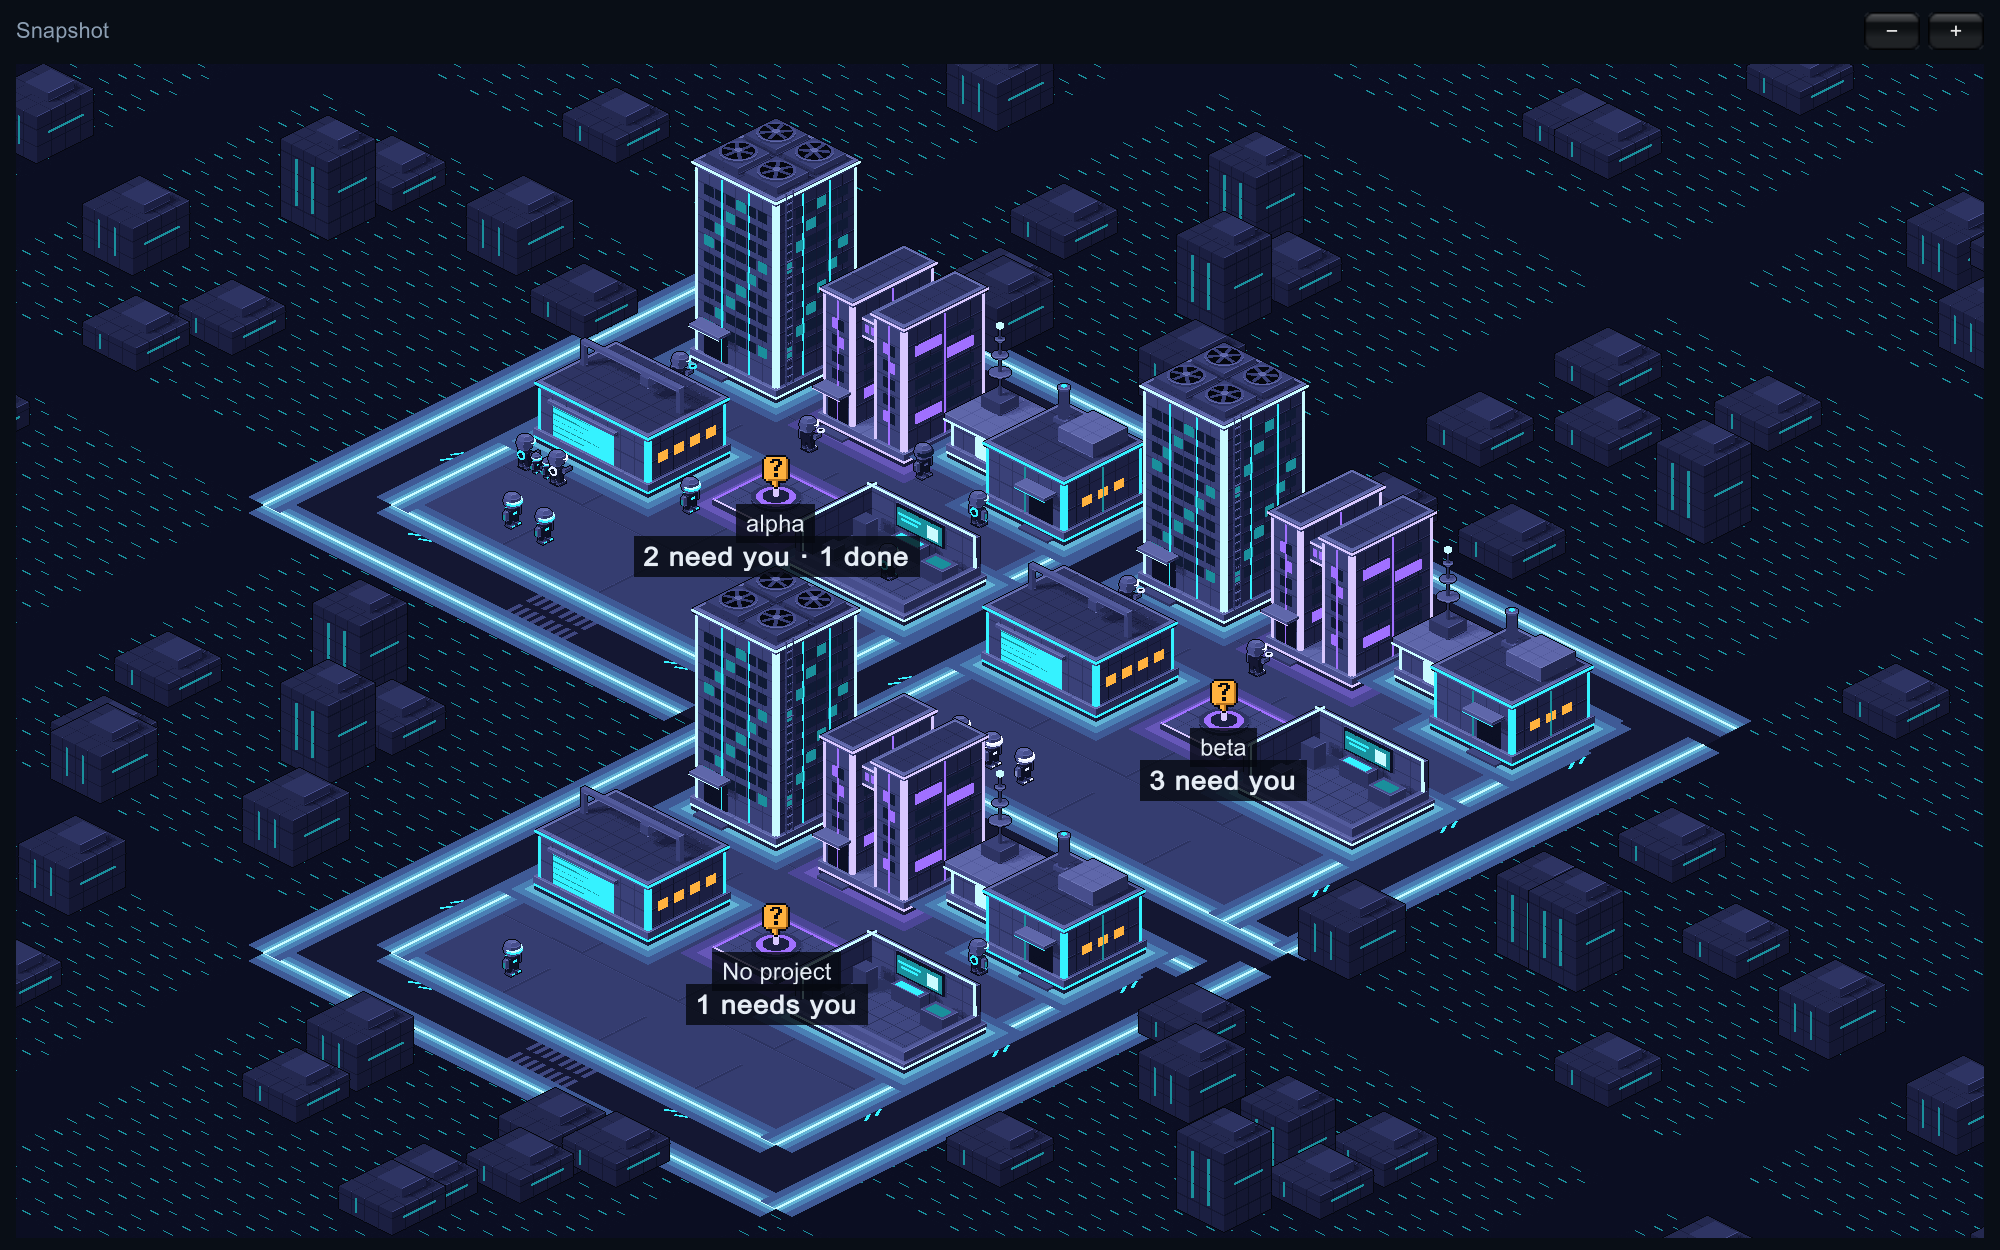
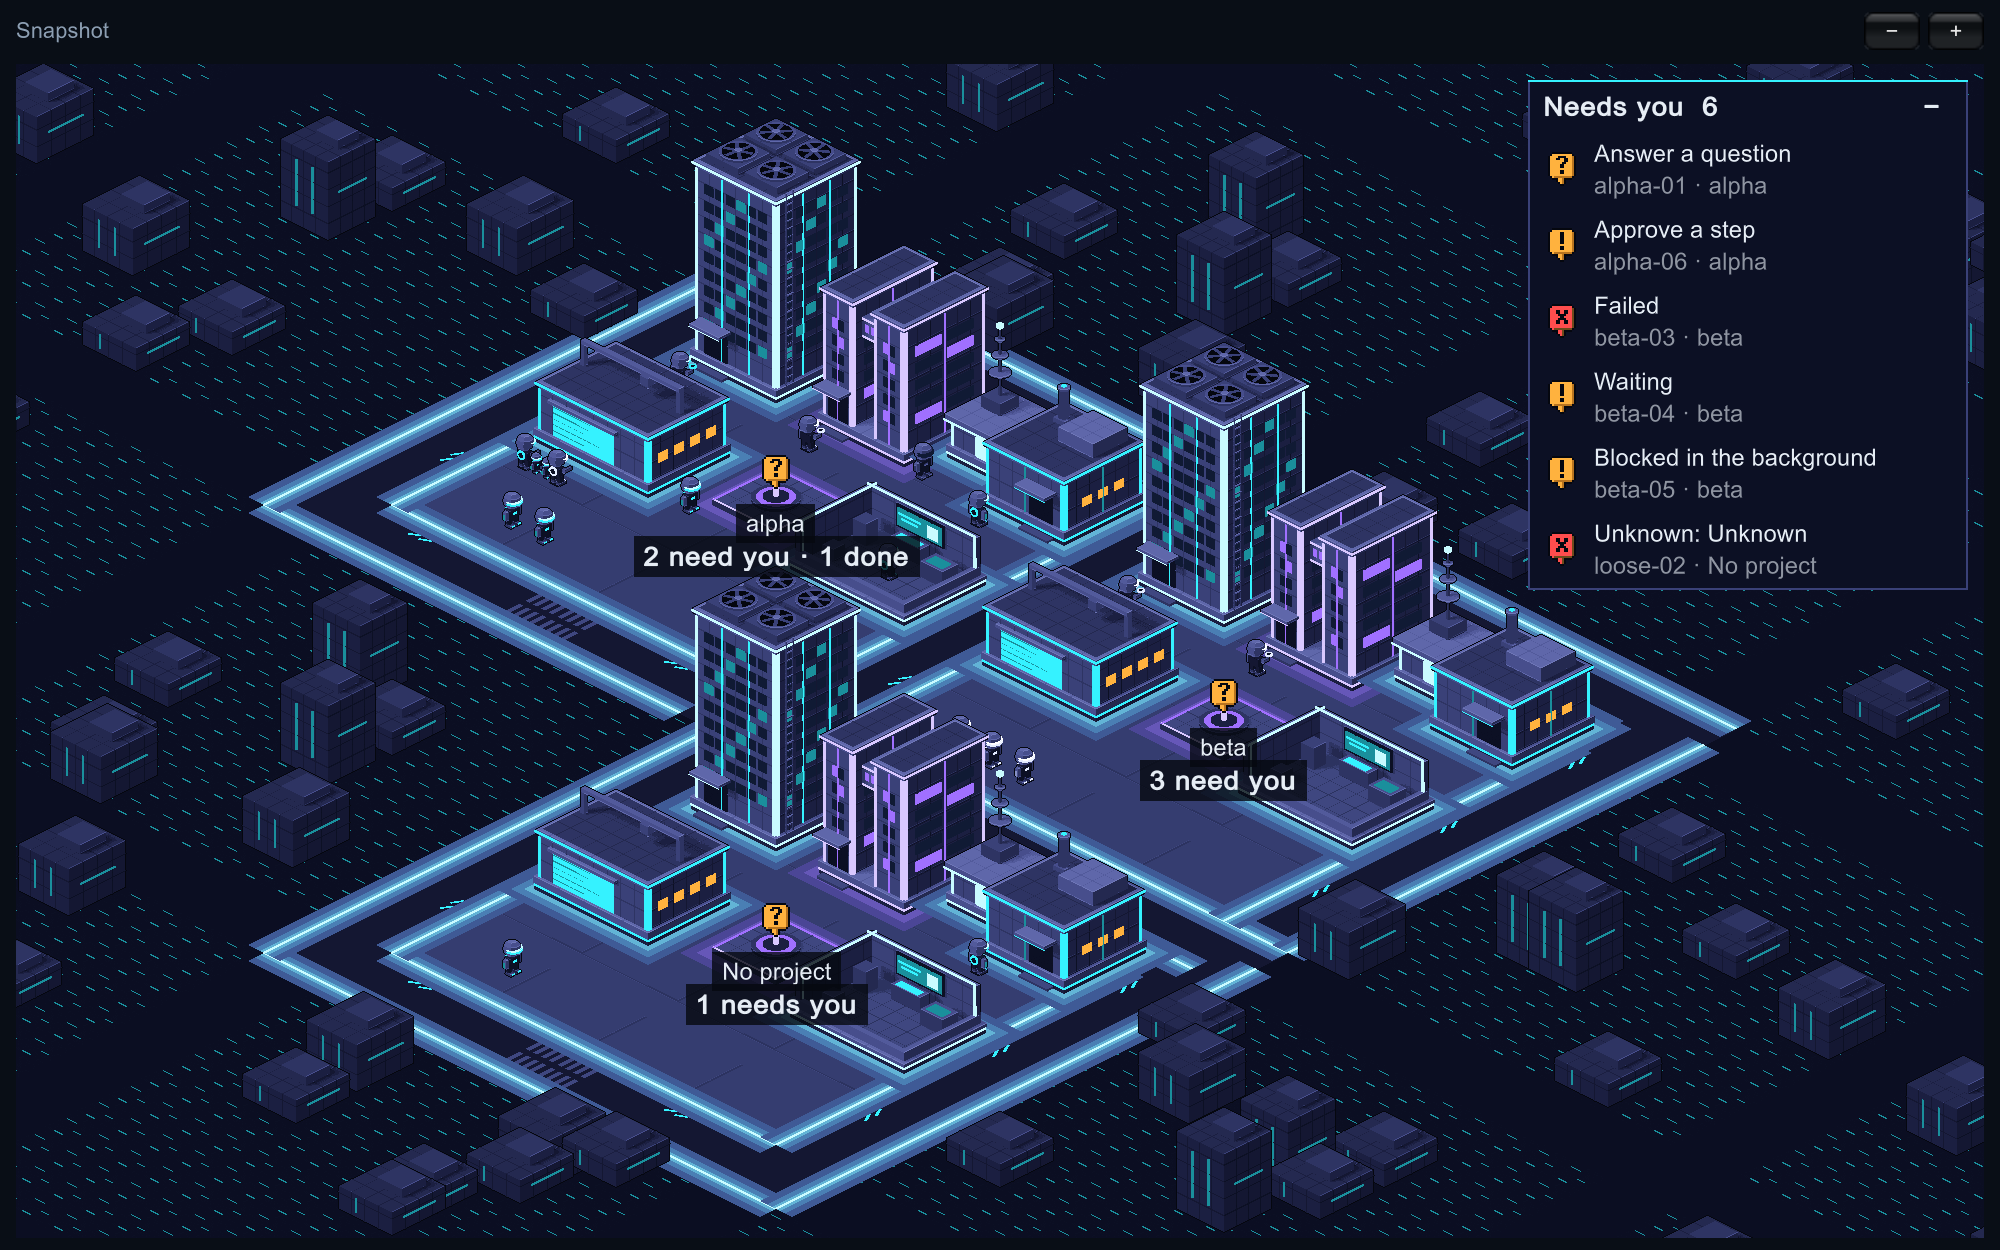
GRID-19: who needs you, and the bot card
Two panels over the world, down its right side. Needs you lists every bot waiting on the
owner with what it wants; a click goes to that bot and selects it. The card of the selected
bot replaces the roster row under the map. A press on a panel never reaches the map. In a
narrow map the list starts folded and the card spans the width; in a short one two rows show.

Changed region(s): [[0.744, 0.0624, 0.93, 0.468], [0.93, 0.156, 0.992, 0.2808], [0.961, 0.0624, 0.992, 0.0936]]

diff --git a/Assets/TheGrid/WorldPanels.cs b/Assets/TheGrid/WorldPanels.cs
@@ -1,0 +1,136 @@
+using System.Collections.Generic;
+using TheGrid.Core;
+using UnityEngine;
+
+namespace TheGrid
+{
+    // The two panels drawn over the world, down its right side: who needs the owner at the top, and the card of the selected
+    // bot at the bottom. The left and the middle stay clear: that is where a sector's waiting bots stand.
+    // Flat plates in palette colours. They say only what Panels made from the roster snapshot.
+    public sealed class WorldPanels
+    {
+        const float Wide = 220, CardWide = 260, Margin = 8, TitleHigh = 26, RowHigh = 38, CardHigh = 92;
+        const int MostRows = 6, RowsWhenShort = 2;
+        static readonly Color Plate = new Color32(0x0c, 0x10, 0x24, 255), Edge = new Color32(0x3a, 0x41, 0x78, 255), Lit = new Color32(0x35, 0xf2, 0xff, 255);
+        static readonly Color Dim = new Color(1, 1, 1, .6f);
+
+        readonly Texture2D[] badges = new Texture2D[5];   // in the order of Badge
+        bool folded, foldChosen;
+        Vector2 scroll;
+        Rect needs, card;   // where the panels are; zero when not drawn
+
+        // Works out where the panels go. Call on every event before the map handles input, so that what is drawn, what is
+        // clicked and what the map leaves alone are the same rectangles.
+        public void Place(Rect map, int rows, bool hasCard)
+        {
+            bool narrow = map.width < 520;
+            if (!foldChosen)
+            {
+                folded = narrow;   // in a narrow window the panel starts as its title only; after that it is the owner's choice
+                foldChosen = true;
+            }
+            needs = card = default;
+            if (hasCard)
+            {
+                float w = narrow ? map.width - 2 * Margin : CardWide;
+                card = new Rect(map.xMax - Margin - w, map.yMax - Margin - CardHigh, w, CardHigh);
+            }
+            if (rows > 0)
+            {
+                float w = Mathf.Min(Wide, map.width - 2 * Margin);
+                int showing = folded ? 0 : Mathf.Min(rows, map.height < 300 ? RowsWhenShort : MostRows);
+                // Never down into the card, and never the whole height of the map: there is always map to click.
+                float room = (hasCard ? card.y : map.yMax) - map.y - 2 * Margin - TitleHigh - 1;
+                float h = TitleHigh + Mathf.Clamp(showing * RowHigh, 0, Mathf.Max(0, room)) + 1;   // and its bottom edge
+                needs = new Rect(map.xMax - Margin - w, map.y + Margin, w, h);
+            }
+        }
+
+        // True where a panel is: a press there is the panel's, never the map's.
+        public bool Covers(Vector2 point) => needs.Contains(point) || card.Contains(point);
+
+        // Draws both panels. Returns the key of a row that was clicked, or "".
+        public string Draw(Rect map, List<NeedsYouRow> rows, BotCard about, GUIStyle text, GUIStyle strong)
+        {
+            string clicked = "";
+            if (needs.width > 0)
+            {
+                Back(needs);
+                var title = new Rect(needs.x, needs.y, needs.width, TitleHigh);
+                GUI.Label(new Rect(title.x + 8, title.y + 3, title.width - 40, 22), "Needs you  " + rows.Count, strong);
+                GUI.Label(new Rect(title.xMax - 22, title.y + 3, 16, 22), folded ? "+" : "−", strong);
+                if (GUI.Button(title, GUIContent.none, GUIStyle.none)) folded = !folded;
+
+                var list = new Rect(needs.x + 1, needs.y + TitleHigh, needs.width - 2, needs.height - TitleHigh - 1);
+                if (list.height > 0)
+                {
+                    bool scrolls = rows.Count * RowHigh > list.height;
+                    float w = list.width - (scrolls ? 18 : 0);   // room for the scroll bar, or a second one appears along the bottom
+                    scroll = GUI.BeginScrollView(list, scroll, new Rect(0, 0, w, rows.Count * RowHigh));
+                    for (int i = 0; i < rows.Count; i++)
+                    {
+                        var row = new Rect(0, i * RowHigh, w, RowHigh);
+                        var badge = Badge(rows[i].badge);
+                        if (badge != null) GUI.DrawTexture(new Rect(8, row.y + 9, 16, 20), badge);
+                        GUI.Label(new Rect(32, row.y + 1, w - 36, 20), rows[i].what, text);
+                        Faint(new Rect(32, row.y + 17, w - 36, 20), rows[i].name + " · " + rows[i].sector, text);
+                        if (GUI.Button(row, GUIContent.none, GUIStyle.none)) clicked = rows[i].key;
+                    }
+                    GUI.EndScrollView();
+                }
+            }
+            if (card.width > 0 && about != null)
+            {
+                Back(card);
+                GUI.Label(new Rect(card.x + 10, card.y + 6, card.width - 20, 22), about.title, strong);
+                GUI.Label(new Rect(card.x + 10, card.y + 27, card.width - 20, 20), about.who, text);
+                Faint(new Rect(card.x + 10, card.y + 45, card.width - 20, 20), about.doing, text);
+                Faint(new Rect(card.x + 10, card.y + 63, card.width - 100, 20), about.since, text);
+                if (about.prNumber > 0 && about.prUrl != "")
+                {
+                    var pr = new Rect(card.xMax - 84, card.y + 60, 74, 22);
+                    Fill(pr, Edge);
+                    GUI.Label(new Rect(pr.x + 8, pr.y + 2, pr.width - 10, 18), "PR #" + about.prNumber, text);
+                    if (GUI.Button(pr, GUIContent.none, GUIStyle.none)) Application.OpenURL(about.prUrl);   // Panels.Card kept only a web link
+                }
+            }
+            return clicked;
+        }
+
+        Texture2D Badge(Badge b)
+        {
+            string[] art = { "", "badge-question", "badge-approve", "badge-fault", "badge-done" };
+            if (b == Core.Badge.None) return null;
+            if (badges[(int)b] == null)
+            {
+                var s = Resources.Load<Sprite>("Art/" + art[(int)b]);
+                if (s != null) badges[(int)b] = s.texture;
+            }
+            return badges[(int)b];
+        }
+
+        // A plate: solid, a one-pixel edge, and a line of light along its top.
+        static void Back(Rect r)
+        {
+            Fill(r, Edge);
+            Fill(new Rect(r.x + 1, r.y + 1, r.width - 2, r.height - 2), Plate);
+            Fill(new Rect(r.x, r.y, r.width, 1), Lit);
+        }
+
+        static void Fill(Rect r, Color c)
+        {
+            var old = GUI.color;
+            GUI.color = c;
+            GUI.DrawTexture(r, Texture2D.whiteTexture);
+            GUI.color = old;
+        }
+
+        static void Faint(Rect r, string words, GUIStyle style)
+        {
+            var old = GUI.color;
+            GUI.color = Dim;
+            GUI.Label(r, words, style);
+            GUI.color = old;
+        }
+    }
+}

diff --git a/Assets/TheGrid/RosterApp.cs b/Assets/TheGrid/RosterApp.cs
@@ -23,7 +23,7 @@ namespace TheGrid
 
         Collector collector;
         Pile pile;
-        Vector2 scroll, pileScroll, rowScroll;
+        Vector2 scroll, pileScroll;
         RosterSnapshot logged, drawn = new RosterSnapshot();
         PileSnapshot pileDrawn = new PileSnapshot();
         // A click changes the "next" value; it takes effect on the following Layout event, so both IMGUI passes draw the same controls.
@@ -32,6 +32,9 @@ namespace TheGrid
         WorldView world;
         WorldModel worldDrawn = new WorldModel();
         RosterSnapshot worldFrom;   // the snapshot worldDrawn was built from
+        readonly WorldPanels panels = new WorldPanels();
+        List<NeedsYouRow> needsYou = new List<NeedsYouRow>();
+        BotCard card;
         Plots plots;
         string plotsPath, selected = "", shotsDir;
         int plotsWarned = -1;
@@ -95,6 +98,7 @@ namespace TheGrid
             world.LookAtAll();
             yield return Shot("far.png");
             world.LookAtOpening();
+            world.Select(Arg("-select"));   // a picture with a bot's card in it
             yield return Shot("near.png");
             Application.Quit();
         }
@@ -201,14 +205,9 @@ namespace TheGrid
             }
         }
 
-        // The map, and under it the roster row of the bot that was clicked. Built from the same snapshot the lists draw.
-        void DrawWorld(Rect area, float scale, long now)
+        // The map, and over it who needs the owner and the card of the bot that was clicked. All from the snapshot the lists draw.
+        void DrawWorld(Rect map, float scale, long now)
         {
-            var row = selected == "" ? null : drawn.agents.Find(a => a.account + "|" + a.sessionId == selected);
-            // The row never takes more than half the view, however many subagents it lists or however short the window: there is
-            // always a map to click, which is also how a selection is cleared. What does not fit scrolls.
-            float rowHeight = row == null ? 0 : Mathf.Min(60 + 16 * row.subagents.Count, area.height / 2);
-            var map = new Rect(area.x, area.y, area.width, area.height - rowHeight);
             if (Event.current.type == EventType.Layout)
             {
                 // The same snapshot gives the same world: build it once, so the view can tell that nothing changed.
@@ -216,6 +215,7 @@ namespace TheGrid
                 {
                     worldFrom = drawn;
                     worldDrawn = World.Build(drawn, plots);
+                    needsYou = Panels.NeedsYou(drawn);
                 }
                 if (fixedSnap == null)
                 {
@@ -228,16 +228,17 @@ namespace TheGrid
                     }
                 }
                 world.Show(worldDrawn, map, scale);
+                card = selected == "" ? null : Panels.Card(drawn, selected, now);
             }
-            world.Gui(detail, title);
+            panels.Place(map, needsYou.Count, card != null);
+            world.Gui(detail, title, panels.Covers);
             if (drawn.errors.Count > 0) GUI.Label(new Rect(map.x + 4, map.y + 4, map.width - 8, 32), string.Join(" | ", drawn.errors), error);
-            if (row == null) return;
-            rowWidth = area.width;
-            GUILayout.BeginArea(new Rect(area.x, map.yMax + 4, area.width, rowHeight - 4));
-            rowScroll = GUILayout.BeginScrollView(rowScroll);
-            DrawAgent(row, now);
-            GUILayout.EndScrollView();
-            GUILayout.EndArea();
+            string clicked = panels.Draw(map, needsYou, card, detail, title);
+            if (clicked != "")
+            {
+                world.Select(clicked);
+                world.LookAt(clicked);
+            }
         }
 
         void DrawRoster(Rect area, RosterSnapshot snap, long now)

diff --git a/Assets/TheGrid/WorldView.cs b/Assets/TheGrid/WorldView.cs
@@ -114,10 +114,18 @@ namespace TheGrid
             while (Far && level < Iso.Zoom.Length - 1) level++;
         }
 
-        // Centres on a bot, at the level the view is at.
+        // Centres on a bot, close enough to make it out.
         public void LookAt(string botKey)
         {
-            if (stage != null && stage.TryGetBot(botKey, out var at)) centre = at;
+            if (stage == null || !stage.TryGetBot(botKey, out var at)) return;
+            while (Far && level < Iso.Zoom.Length - 1) level++;
+            centre = at;
+        }
+
+        // Selects a bot as a click on it does. A key no bot has selects nothing.
+        public void Select(string botKey)
+        {
+            if (stage != null && stage.TryGetBot(botKey, out _)) Selected = botKey;
         }
 
         public void ZoomBy(int steps) => level = Iso.ClampLevel(level + steps);
@@ -236,12 +244,13 @@ namespace TheGrid
         }
 
         // Mouse and keys, then the picture of the map and the names over it, drawn as text at the screen's own sharpness.
-        // Call inside OnGUI after Show.
-        public void Gui(GUIStyle label, GUIStyle loud)
+        // Call inside OnGUI after Show. covered: true for a point that something drawn over the map has taken; a press or a
+        // scroll there is not the map's.
+        public void Gui(GUIStyle label, GUIStyle loud, Func<Vector2, bool> covered = null)
         {
             if (holder == null) return;
             var e = Event.current;
-            Handle(e);
+            Handle(e, covered);
             if (e.type != EventType.Repaint) return;
 
             if (picture != null) GUI.DrawTexture(new Rect(view.x, view.y, pixelW / pointScale, pixelH / pointScale), picture, ScaleMode.StretchToFill, false);
@@ -305,9 +314,9 @@ namespace TheGrid
             GUI.Label(new Rect(rect.x + 5, rect.y, rect.width - 5, rect.height), content, style);
         }
 
-        void Handle(Event e)
+        void Handle(Event e, Func<Vector2, bool> covered)
         {
-            bool inside = view.Contains(e.mousePosition);
+            bool inside = view.Contains(e.mousePosition) && (covered == null || !covered(e.mousePosition));
             float k = Iso.Zoom[level] / pointScale;   // points per art pixel
             switch (e.type)
             {

diff --git a/README.md b/README.md
@@ -88,7 +88,14 @@ A lane runs round every sector, so between any two neighbours there is one, and 
 - **Move:** drag, or scroll with two fingers.
 - **Zoom:** the **−** and **+** buttons, the `-` and `+` keys, or scroll while holding Command. There are five levels, each double the last.
 - **Far out,** each sector shows its name, how many bots need you and how many are done. **Closer in,** buildings and bots are named. The colour of a bot's light (blue, white or orange) is its account. Small bots beside a bot are its subagents.
-- **Click a bot** to see that agent's roster row under the map.
+- **Click a bot** to see its card.
+
+Two panels lie over the map, down its right side:
+
+- **Needs you** lists every bot that is waiting on you, most urgent first, with what it wants: an answer, an approval, or a look at a failure. Click a row and the view goes to that bot and selects it. Click the title to fold the list away; in a narrow window it starts folded.
+- **The card** of the selected bot says what it is doing, who it is, in which repo and on which ticket, and for how long. When the agent has a pull request, **PR #n** opens it.
+
+![A narrow window: the list folded, the card across the bottom](docs/art/world-narrow.png)
 
 Which repo has which sector is kept in `world.json` beside `settings.json`. A repo keeps its place for good, also after its sessions are gone; delete the file to start the map again. If its contents are damaged it is kept as `world.json.bad` and the map starts empty.
 
@@ -98,7 +105,7 @@ To look at the world without any agent sessions, start the app on a roster snaps
 Builds/TheGrid.app/Contents/MacOS/"The Grid" -snapshot "$PWD/fixtures/world/snapshot.json"
 ```
 
-Add `-shots <folder>` and it saves `far.png` and `near.png` there and quits. With the editor closed, **The Grid > Render World Pictures** does much the same without a window, into `Logs/`, though without the names and badges:
+Add `-shots <folder>` and it saves `far.png` and `near.png` there and quits; `-select <account>|<session id>` selects that bot for `near.png`. With the editor closed, **The Grid > Render World Pictures** does much the same without a window, into `Logs/`, though without the names and badges:
 
 ```bash
 /Applications/Unity/Hub/Editor/6000.4.3f1/Unity.app/Contents/MacOS/Unity -batchmode -projectPath "$PWD" -executeMethod TheGrid.EditorTools.GridMenu.WorldPictures -quit
@@ -116,6 +123,7 @@ The sprites are made by a script; see [tools/art/README.md](tools/art/README.md)
 | Assets/TheGrid/RosterApp.cs, Roster.unity | The roster window and its scene. |
 | Assets/TheGrid/WorldView.cs | The world as the window sees it: the camera, moving and zooming, names and badges. |
 | Assets/TheGrid/WorldStage.cs | The world's scene: ground, lanes, buildings, bots and the blocks beyond. |
+| Assets/TheGrid/WorldPanels.cs | The two panels over the world: who needs you, and the selected bot's card. |
 | Assets/TheGrid/Resources/Art/, tools/art/ | The sprites, and the Blender script that makes them. |
 | Assets/TheGrid/Tests/ | EditMode tests for Core. |
 | fixtures/ | Hand-written sample records and the pinned roster snapshot. |
